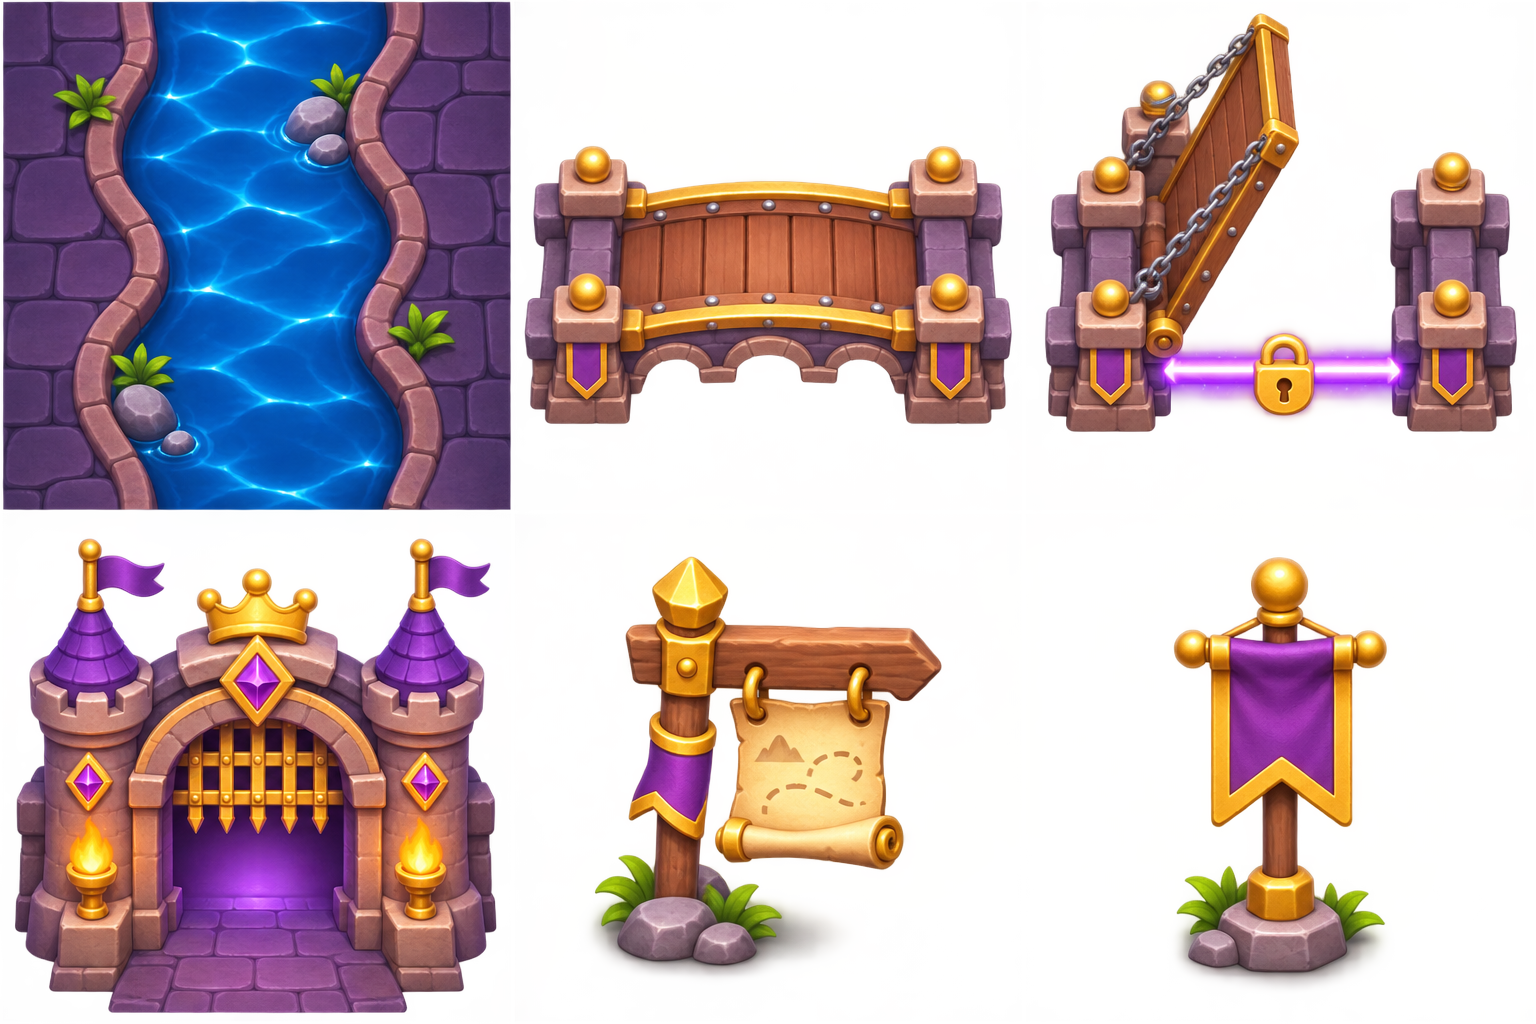
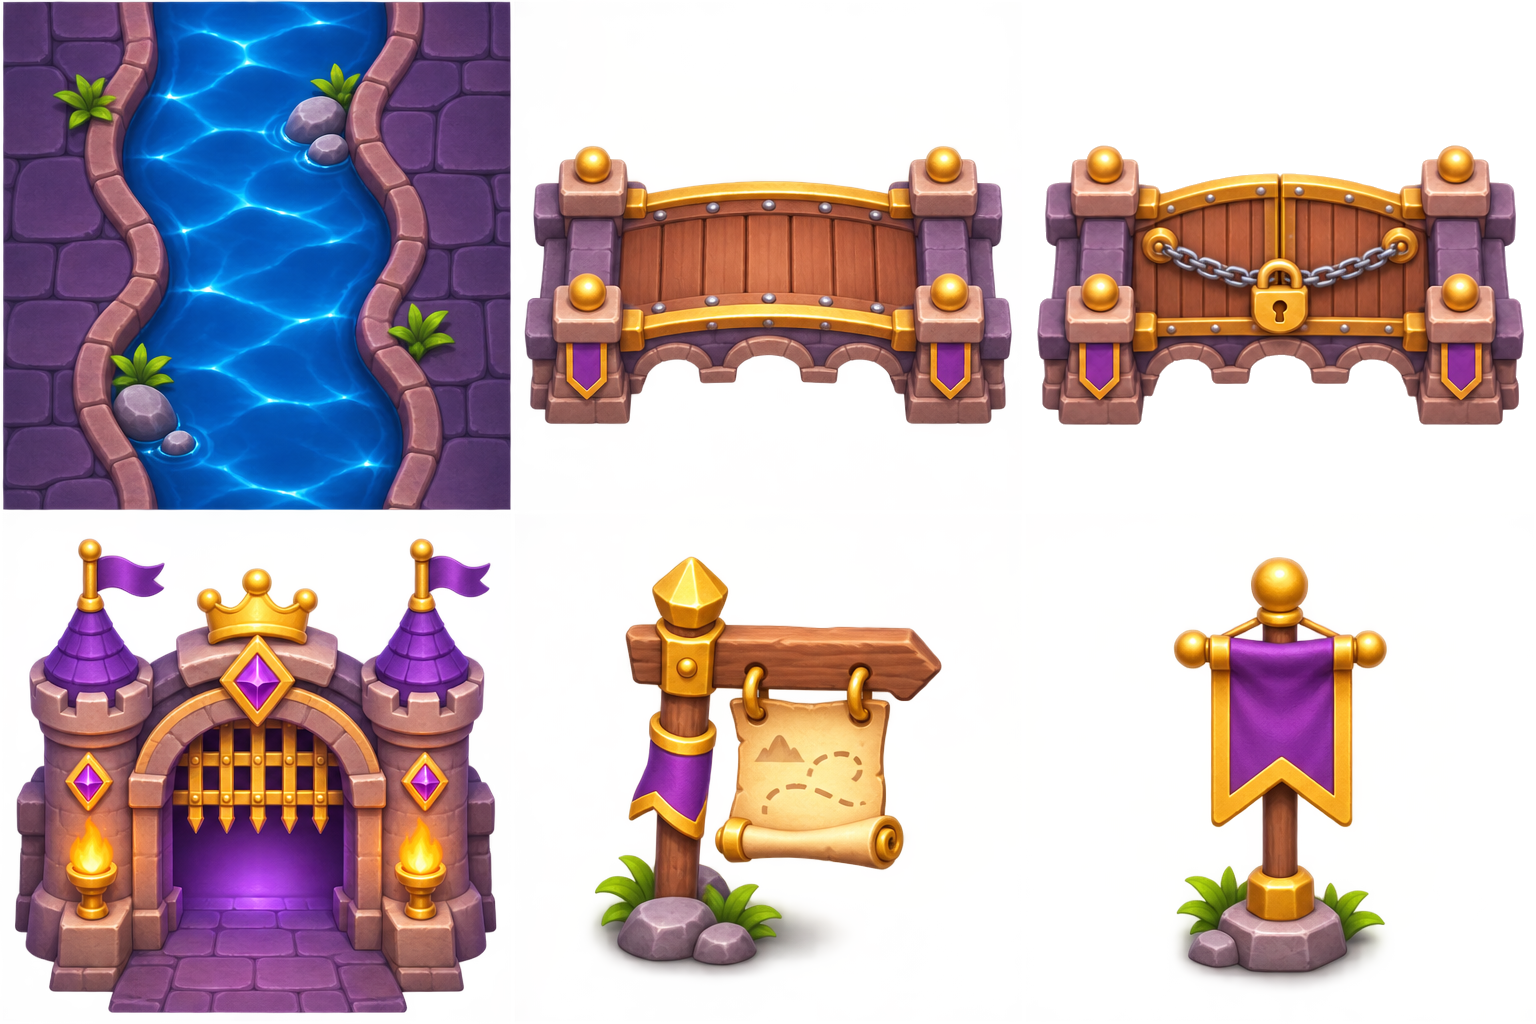
hamyol: J01 kapalı köprü düz + kilitli kapı olarak yenilendi (yalnız 3. hücre)

Changed region(s): [[0.6562, 0.0, 1.0, 0.4375]]

diff --git a/hayalet-avcilari/gorsel/hamyol/DURUM.md b/hayalet-avcilari/gorsel/hamyol/DURUM.md
@@ -4,7 +4,7 @@
 
 | Pafta | İçerik | Durum |
 |---|---|---|
-| J01 | Mor Şato (Purple Castle) | üretildi (1. deneme, Chrome'da ChatGPT, referans U06 + D01; sohbet 'Image prompt ready'): mor taş zeminli nehir karosu (hücreyi dolduruyor, %96 opak, kenarda 1-3 px saydam; nehir ~240 px, istem 360; üst-alt dikişte kıyı birkaç px kayıyor, ortalama renk farkı 10,7), açık köprü, kalkık köprü + mor ışık çizgisi + kilit, kuleli taçlı boss kapısı, haritalı yön tabelası (yazısız), mor sancak; hücre sınırı aşılmıyor; kullanıcı onayı bekleniyor (J02-J12 onaydan sonra) |
+| J01 | Mor Şato (Purple Castle) | üretildi ve kullanıcı onayladı (1. deneme, Chrome'da ChatGPT, sohbet 'Image prompt ready', referans U06 + D01): mor taş zeminli nehir karosu, açık köprü, taçlı kuleli boss kapısı, haritalı yön tabelası (yazısız), mor sancak; 27 Kas: kullanıcı istedi, YALNIZ 3. hücre yenilendi (onaylı J01 referans verilip ChatGPT'den istendi): eski kalkık köprü + mor ışık çizgisi yerine 2. hücredeki köprünün AYNISI düz durumda, ortasında zincirli + asma kilitli ahşap çift kapı (2. hücreyle taban örtüşmesi 0,988, öteleme 0); hücredeki pus Claude tarafından temizlendi (alfa ≥150 nesneden ~7 px uzak pus silindi); öteki 5 hücre bayt bayt aynı |
 | J02 | Yeşil Orman (Green Forest) | üretildi (2. sürüm, Chrome'da ChatGPT, sohbet 'Image prompt ready', referans U06 + D01; 1. sürümün arka planı yarı opak beyazdı, gerçek saydamlık istendi): nehir karosu hücreyi dolduruyor (%99 opak), su ~320 px, kıyı şekli üst-alt sürüyor ama sudaki ışık deseninde dikiş çizgisi seçiliyor (üst-alt satır farkı 31,5, iç 5,6; kesimde harmanlanmalı); açık köprü (yosunlu kütük, 484×244 px); kapalı köprü AYNI yer ve boyda düz, ortasında zincirli + asma kilitli çift kanatlı kapı; taçlı yosunlu taş kemer; parşömenli tabela (yazısız); yeşil sancak; hücre sınırlarında 1-2 px soluk ızgara çizgisi (alfa ≤136), parçalar 250-254 alfada, kesimde kırpılmalı |
 | J03 | Çöl (Desert) | üretildi (1. deneme, Chrome'da ChatGPT, sohbet 'Image prompt ready', referans U06 + D01; istemde gerçek alfa kanalı vurgulandı): turkuaz vaha nehri, kumtaşı kıyılar, hurma/çalı süsleri (hücreyi dolduruyor, %96 opak, kenarda 1-2 px saydam; su ~300 px; üst-alt dikiş farkı 14,6, iç 5,6); açık köprü J01 gibi üç çeyrek açıdan kemerli kumtaşı (443×245 px); kapalı köprü AYNI yer ve boyda düz, ortasında zincirli + asma kilitli ahşap çift kapı; taçlı kumtaşı kemer (kırmızı-altın flamalı); haritalı parşömenli tabela (yazısız); turkuaz sancak; 2. hücrede sol kenara yakın birkaç soluk sis pikseli (alfa 40-100), parçalar 250-254 alfada, kesimde eşikle atılmalı |
 | J04 | Buz Mağarası (Ice Cave) | üretildi (Chrome'da ChatGPT, sohbet 'Image prompt ready', referans U06 + D01): 2-6. hücreler 1. denemeden; 1. denemenin nehir karosu dikişsiz değildi (kıyılar üst-alt kenarda tutmuyordu, fark 43,7), yalnız karo yeniden istendi, ChatGPT ayrı 1254×1254 karo verdi, 512'ye küçültülüp 1. hücreye kondu (Claude birleştirdi; ChatGPT'nin kendi birleştirdiği pafta alfayı katı 0/255 yaptığı için kullanılmadı); nehir: buz kıyılı açık mavi su, yüzen buz parçaları, su ~400 px, üst-alt dikiş farkı 5,2 (iç 5,8) yani dikişsiz; açık köprü kristalli buz taşı + ahşap döşeme (454×266 px), kapalı köprü AYNI yer ve boyda düz, ortasında zincirli + asma kilitli ahşap çift kapı; taçlı buz kemer (mavi flamalı); haritalı tabela (yazısız); mavi sancak; arka planda her yerde düşük alfalı sis (çoğu 1-12, en çok 39), parçalar 250-254 alfada, kesimde eşikle atılmalı |
